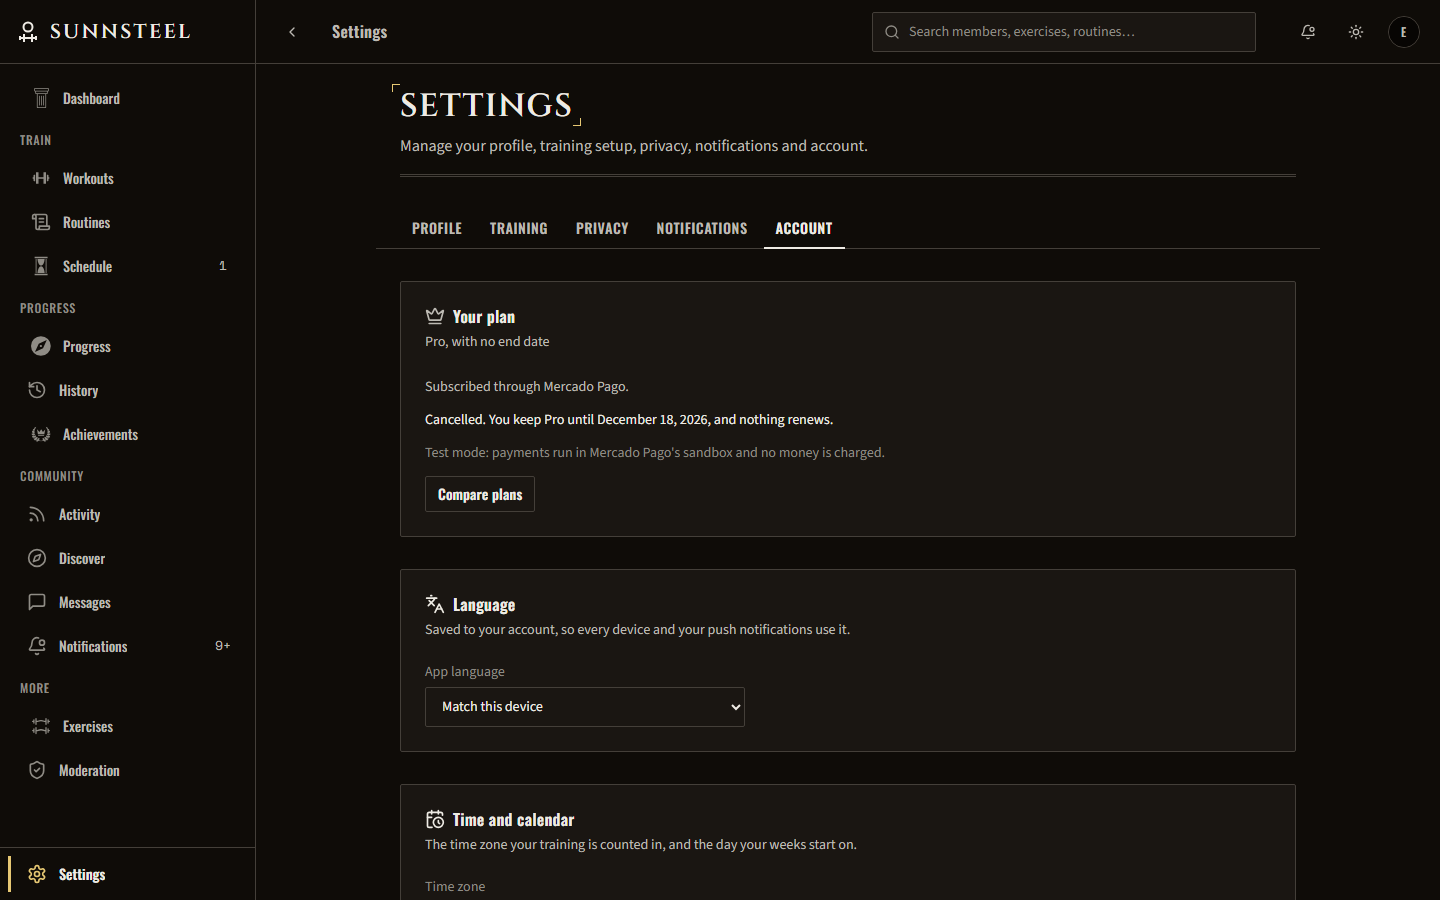
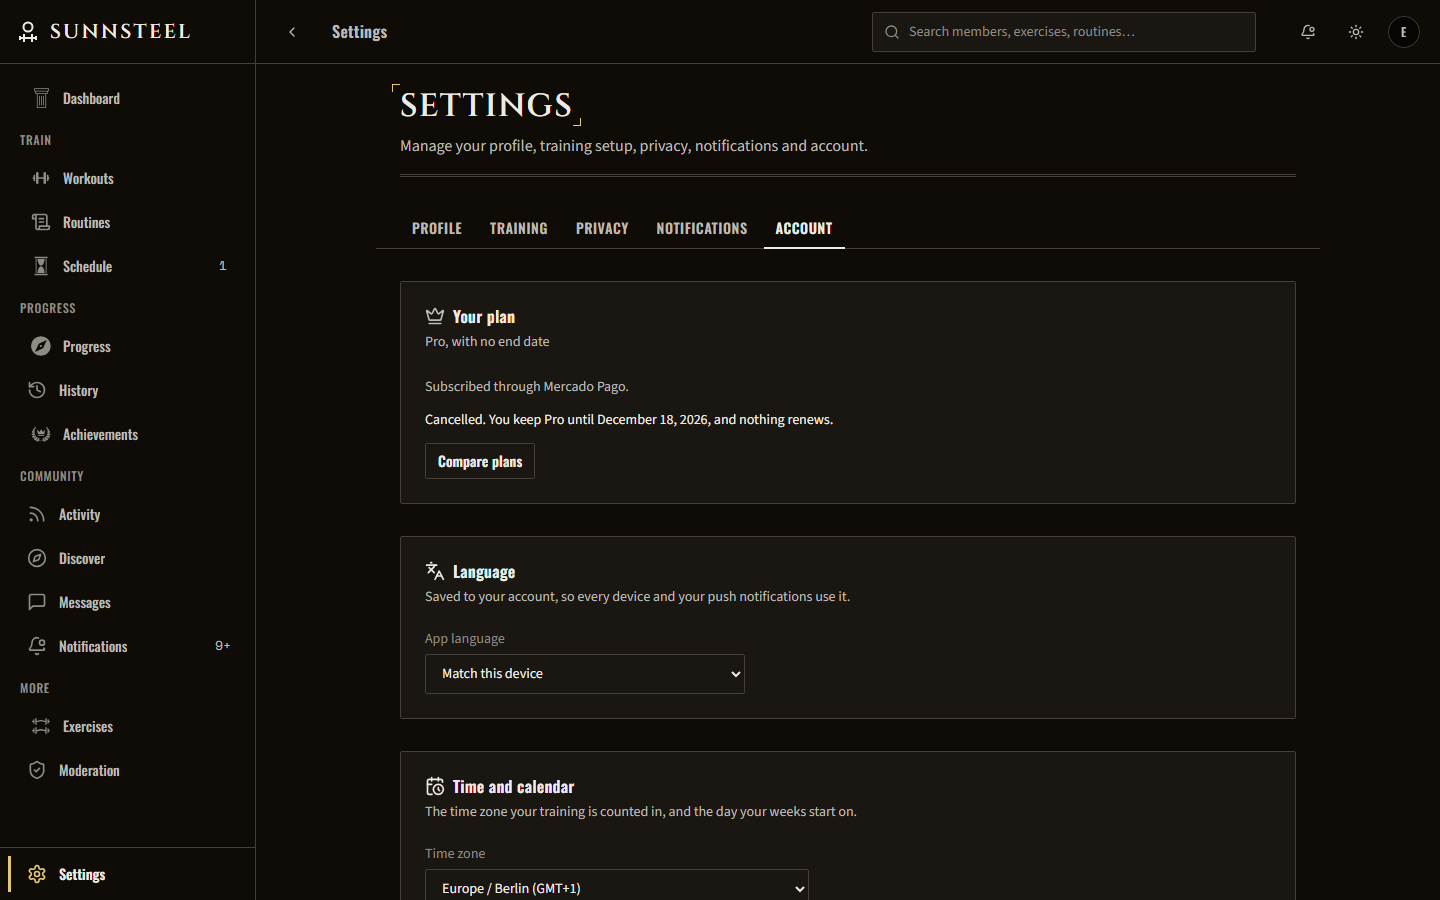
fix(portfolio): wait for the profile handle; settings without test mode
discoverIds read /profile before its query rendered the @handle, so
member-profile failed with no :username. It now waits for the handle.
settings-display reuses withoutSandboxNotice, since its plan card reads the
same GET /billing/me and showed the local "Test mode" line. Recaptures it;
member-profile came out byte-identical to its last frame.

Changed region(s): [[0.2812, 0.8711, 0.5938, 0.9956], [0.2812, 0.6222, 0.5938, 0.8089], [0.2812, 0.4978, 0.625, 0.56]]

diff --git a/e2e/portfolio-targets.ts b/e2e/portfolio-targets.ts
@@ -331,7 +331,7 @@ function scrollToHeading(name: string) {
 }
 
 /**
- * `/plans` without the "Test mode" line. A local backend runs Mercado Pago in
+ * `/plans` (and the plan card on `/settings/account`) without the "Test mode" line. A local backend runs Mercado Pago in
  * its sandbox (`MERCADO_PAGO_SANDBOX=true`, the only mode a local stack may
  * use), so `GET /billing/me` answers `checkout.testMode: true` and the page
  * says payments are not real. Production runs live and never shows it, so the
@@ -829,6 +829,8 @@ export const PORTFOLIO_TARGETS: PortfolioTarget[] = [
 		slug: 'settings-display',
 		route: '/settings/account',
 		features: ['A11Y-02', 'LIVE-18', 'A11Y-01'],
+		// Your plan, at the top of this tab, reads the same `GET /billing/me`.
+		setup: withoutSandboxNotice,
 		ready: ['Display', 'Higher contrast', 'Larger controls'],
 		caption:
 			"This device's display choices: higher contrast, which also follows the operating system, and larger controls, which turn the workout screen into gym mode.",

diff --git a/e2e/discover-ids.ts b/e2e/discover-ids.ts
@@ -70,9 +70,18 @@ export async function discoverIds(browser: Browser): Promise<Ids> {
 		// Built from the contract's own pattern: a hand-written `[a-z0-9_]` stopped
 		// at the first hyphen of "codex-prof03-0909" and sent the members check to
 		// a profile that does not exist.
+		// The handle renders after the profile query, which can still be in
+		// flight at `networkidle`: on 2026-11-25 the text was read too early and
+		// `member-profile` failed with no :username. Wait for it.
 		await page.goto('/profile', { waitUntil: 'networkidle' })
-		const text = await page.locator('main').innerText()
 		const username = new RegExp(`@(${USERNAME_PATTERN_SOURCE.slice(1, -1)})`)
+		await page
+			.locator('main')
+			.getByText(username)
+			.first()
+			.waitFor({ timeout: 15_000 })
+			.catch(() => {})
+		const text = await page.locator('main').innerText()
 		found.username = text.match(username)?.[1]
 
 		// MSG-01: the owner's newest conversation, when they have one.
